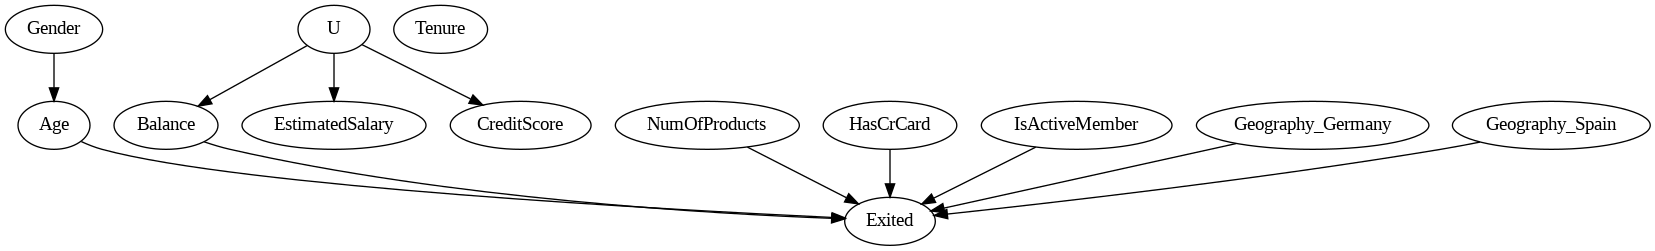
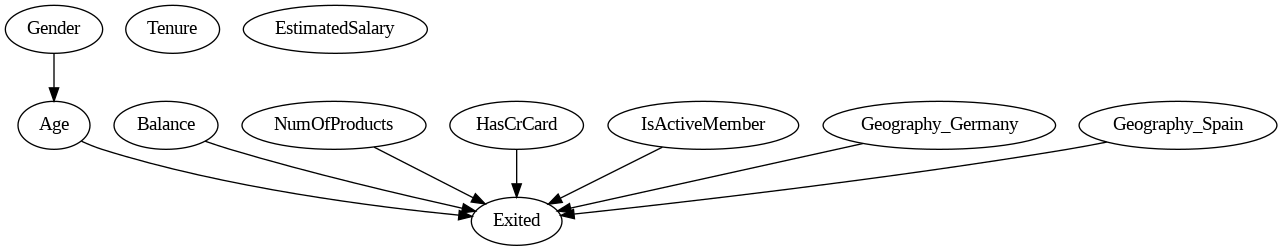
last updates

diff --git a/telco_churn_analysis/telco_churn_analysis/causal/telco_churn_analysis.py b/telco_churn_analysis/telco_churn_analysis/causal/telco_churn_analysis.py
@@ -1,0 +1,119 @@
+import sys
+import subprocess
+
+# Install required system dependencies for pygraphviz
+try:
+    if sys.platform.startswith('linux'):
+        subprocess.check_call(['sudo', 'apt-get', 'install', '-y', 'graphviz', 'graphviz-dev'])
+    elif sys.platform == 'darwin':  # macOS
+        subprocess.check_call(['brew', 'install', 'graphviz'])
+    elif sys.platform.startswith('win'):  # Windows
+        print("Please install Graphviz from https://graphviz.org/download/ and add it to your PATH.")
+except Exception as e:
+    print(e)
+
+# Install pygraphviz
+try:
+    subprocess.check_call([sys.executable, '-m', 'pip', 'install', 'pygraphviz'])
+except Exception as e:
+    print(e)
+
+# Import necessary libraries
+import pandas as pd
+import numpy as np
+import matplotlib.pyplot as plt
+import dowhy
+import graphviz
+from IPython.display import Image, display
+
+# Load the dataset
+dataset = pd.read_csv('https://raw.githubusercontent.com/serterergun/Implementation/main/telco_churn_analysis/data/telco_churn_analysis.csv?token=GHSAT0AAAAAACRMURIWLGAIVKVZSRA5UZEGZSFJD3Q')
+
+# Drop the "customerID" column
+dataset = dataset.drop(['customerID'], axis=1)
+
+# Encode categorical features
+categorical_features = [
+    'gender', 'Partner', 'Dependents', 'PhoneService', 'MultipleLines', 
+    'InternetService', 'OnlineSecurity', 'OnlineBackup', 'DeviceProtection', 
+    'TechSupport', 'StreamingTV', 'StreamingMovies', 'Contract', 
+    'PaperlessBilling', 'PaymentMethod'
+]
+
+# Convert categorical variables into dummy/indicator variables
+dataset = pd.get_dummies(dataset, columns=categorical_features, drop_first=True)
+
+# Check for missing values and handle if necessary
+dataset.isnull().sum()
+
+# Creating a copy of the dataset
+dataset_copy = dataset.copy(deep=True)
+
+# Define the causal graph
+causal_graph = """digraph {
+    SeniorCitizen[label="Senior Citizen"];
+    tenure[label="Tenure"];
+    MonthlyCharges[label="Monthly Charges"];
+    TotalCharges[label="Total Charges"];
+    Churn[label="Churn"];
+    gender_Male[label="Gender: Male"];
+    Partner_Yes[label="Partner"];
+    Dependents_Yes[label="Dependents"];
+    PhoneService_Yes[label="Phone Service"];
+    MultipleLines_Yes[label="Multiple Lines"];
+    InternetService_Fiber_optic[label="Internet Service: Fiber Optic"];
+    InternetService_No[label="Internet Service: No"];
+    OnlineSecurity_Yes[label="Online Security"];
+    OnlineBackup_Yes[label="Online Backup"];
+    DeviceProtection_Yes[label="Device Protection"];
+    TechSupport_Yes[label="Tech Support"];
+    StreamingTV_Yes[label="Streaming TV"];
+    StreamingMovies_Yes[label="Streaming Movies"];
+    Contract_One_year[label="Contract: One Year"];
+    Contract_Two_year[label="Contract: Two Year"];
+    PaperlessBilling_Yes[label="Paperless Billing"];
+    PaymentMethod_Credit_card_automatic[label="Payment Method: Credit Card (Automatic)"];
+    PaymentMethod_Electronic_check[label="Payment Method: Electronic Check"];
+    PaymentMethod_Mailed_check[label="Payment Method: Mailed Check"];
+
+    gender_Male -> Churn;
+    Partner_Yes -> Churn;
+    Dependents_Yes -> Churn;
+    PhoneService_Yes -> Churn;
+    MultipleLines_Yes -> Churn;
+    InternetService_Fiber_optic -> Churn;
+    InternetService_No -> Churn;
+    OnlineSecurity_Yes -> Churn;
+    OnlineBackup_Yes -> Churn;
+    DeviceProtection_Yes -> Churn;
+    TechSupport_Yes -> Churn;
+    StreamingTV_Yes -> Churn;
+    StreamingMovies_Yes -> Churn;
+    Contract_One_year -> Churn;
+    Contract_Two_year -> Churn;
+    PaperlessBilling_Yes -> Churn;
+    PaymentMethod_Credit_card_automatic -> Churn;
+    PaymentMethod_Electronic_check -> Churn;
+    PaymentMethod_Mailed_check -> Churn;
+    SeniorCitizen -> Churn;
+    tenure -> Churn;
+    MonthlyCharges -> Churn;
+    TotalCharges -> Churn;
+}"""
+
+# Initialize the dowhy model with the new dataset and adjusted causal graph
+model = dowhy.CausalModel(
+    data=dataset,
+    graph=causal_graph.replace("\n", " "),
+    treatment="Contract_Two_year",  # Adjust this based on the causal question
+    outcome='Churn'
+)
+
+# Generate the causal graph image
+model.view_model()
+
+# Display the causal graph
+display(Image(filename="causal_model.png"))
+
+# Save the causal graph as a PDF
+graphviz.Source(causal_graph).render("causal_model", format='pdf')

diff --git a/bank_customer_churn_analysis/bank_customer_churn_analysis/causal/bank_customer_churn_analysis.py b/bank_customer_churn_analysis/bank_customer_churn_analysis/causal/bank_customer_churn_analysis.py
@@ -1,12 +1,33 @@
+import sys
+import subprocess
+
+# Install required system dependencies for pygraphviz
+try:
+    if sys.platform.startswith('linux'):
+        subprocess.check_call(['sudo', 'apt-get', 'install', '-y', 'graphviz', 'graphviz-dev'])
+    elif sys.platform == 'darwin':  # macOS
+        subprocess.check_call(['brew', 'install', 'graphviz'])
+    elif sys.platform.startswith('win'):  # Windows
+        print("Please install Graphviz from https://graphviz.org/download/ and add it to your PATH.")
+except Exception as e:
+    print(e)
+
+# Install pygraphviz
+try:
+    subprocess.check_call([sys.executable, '-m', 'pip', 'install', 'pygraphviz'])
+except Exception as e:
+    print(e)
+
+# Import necessary libraries
 import pandas as pd
 import numpy as np
 import matplotlib.pyplot as plt
 import dowhy
 import graphviz
+from IPython.display import Image, display
 
 # Load the new dataset
-dataset = pd.read_csv('https://raw.githubusercontent.com/serterergun/Implementation/main/bank_customer_churn_analysis/data/bank_customer_churn_analysis.csv?token=GHSAT0AAAAAACRMURIWREBERBCK3KZAWPM6ZSFG3OQ')
-dataset.head()
+dataset = pd.read_csv('https://raw.githubusercontent.com/serterergun/Implementation/main/bank_customer_churn_analysis/data/bank_customer_churn_analysis.csv?token=GHSAT0AAAAAACRMURIXQD6PB2P4AKEV2GXSZSFJWSA')
 
 # Drop the specified columns
 dataset = dataset.drop(['RowNumber', 'CustomerId', 'Surname'], axis=1)
@@ -15,35 +36,25 @@ dataset = dataset.drop(['RowNumber', 'CustomerId', 'Surname'], axis=1)
 dataset['Gender'] = dataset['Gender'].map({'Male': 1, 'Female': 0})
 dataset = pd.get_dummies(dataset, columns=['Geography'], drop_first=True)
 
-dataset.columns
-
 # Check for missing values and handle if necessary
 dataset.isnull().sum()
-
-# For this example, we assume no additional handling is needed, but you may need to adjust based on the dataset
-
-# Example of printing first few rows after processing
-print(dataset.head())
 
 # Creating a copy of the dataset
 dataset_copy = dataset.copy(deep=True)
 
-# Adjust the causal graph as per the new dataset. This is an example and needs to be adapted based on the dataset's features and domain knowledge.
+# Define the causal graph in a detailed manner
 causal_graph = """digraph {
-    CreditScore;
-    Gender;
-    Age;
-    Tenure;
-    Balance;
-    NumOfProducts;
-    HasCrCard;
-    IsActiveMember;
-    EstimatedSalary;
+    Gender[label="Gender"];
+    Age[label="Age"];
+    Tenure[label="Tenure"];
+    Balance[label="Balance"];
+    NumOfProducts[label="Number of Products"];
+    HasCrCard[label="Has Credit Card"];
+    IsActiveMember[label="Is Active Member"];
+    EstimatedSalary[label="Estimated Salary"];
     Exited[label="Churn"];
     Geography_Germany[label="Geography: Germany"];
     Geography_Spain[label="Geography: Spain"];
-    U[label="Unobserved Confounders",observed="no"];
-    U->{CreditScore, Balance, EstimatedSalary};
     Gender -> Age;
     Age -> Exited;
     Balance -> Exited;
@@ -55,12 +66,15 @@ causal_graph = """digraph {
 }"""
 
 # Initialize the dowhy model with the new dataset and adjusted causal graph
-model= dowhy.CausalModel(
-        data = dataset,
+model = dowhy.CausalModel(
+        data=dataset,
         graph=causal_graph.replace("\n", " "),
         treatment="IsActiveMember",  # Adjust this based on the causal question
-        outcome='Exited')
+        outcome='Exited'
+)
+
+# Generate the causal graph image
 model.view_model()
 
-from IPython.display import Image, display
+# Display the causal graph
 display(Image(filename="causal_model.png"))

diff --git a/heart_failure_analysis/heart_failure_analysis/causal/heart_failure_analysis.py b/heart_failure_analysis/heart_failure_analysis/causal/heart_failure_analysis.py
@@ -27,7 +27,7 @@ import graphviz
 from IPython.display import Image, display
 
 # Load the new dataset
-dataset = pd.read_csv('https://raw.githubusercontent.com/serterergun/Implementation/main/digital_marketing_analysis/data/digital_marketing_analysis.csv?token=GHSAT0AAAAAACRMURIW2KLPR3ABUXU3ARYMZSFIP7Q')
+dataset = pd.read_csv('https://raw.githubusercontent.com/serterergun/Implementation/main/heart_failure_analysis/data/heart_failure_analysis.csv?token=GHSAT0AAAAAACRMURIXN52RIZGALH2B6TPMZSFI3XA')
 
 # Display the first few rows of the dataset to understand its structure
 print(dataset.head())
@@ -48,47 +48,24 @@ for column in dataset.columns:
 dataset_copy = dataset.copy(deep=True)
 
 # Define the outcome variable
-outcome_variable = 'churn'
+outcome_variable = 'DEATH_EVENT'
 
 # Identify a potential treatment variable - adjust based on domain knowledge
-treatment_variable = 'MarketingSpend'  # Example, replace with actual treatment feature if different
+# For now, we will use 'serum_sodium' as an example; please adjust based on your specific analysis
+treatment_variable = 'serum_sodium'  # Example, replace with actual treatment feature if different
+
+# Define all features in the dataset excluding the outcome variable
+features = [feature for feature in dataset.columns if feature != outcome_variable]
+nodes = [f'{feature}[label="{feature}"]' for feature in features]
+edges = [f'{feature} -> {outcome_variable}' for feature in features]
 
 # Define the causal graph in a detailed manner
-causal_graph = """digraph {
-    AccountLength[label="Account Length"];
-    Location[label="Location"];
-    AddtoWishlist[label="Add to Wishlist"];
-    DesktopSessions[label="Desktop Sessions"];
-    AppSessions[label="App Sessions"];
-    DesktopTransactions[label="Desktop Transactions"];
-    TotalProductDetailViews[label="Total Product Detail Views"];
-    SessionDuration[label="Session Duration"];
-    PromotionClicks[label="Promotion Clicks"];
-    AverageOrderValue[label="Average Order Value"];
-    SaleProductViews[label="Sale Product Views"];
-    DiscountRatePerVisitedProducts[label="Discount Rate per Visited Products"];
-    ProductDetailViewPerAppSession[label="Product Detail View per App Session"];
-    AppTransactions[label="App Transactions"];
-    AddToCartPerSession[label="Add to Cart per Session"];
-    CustomerServiceCalls[label="Customer Service Calls"];
-    churn[label="Churn"];
-    AccountLength -> churn;
-    Location -> churn;
-    AddtoWishlist -> churn;
-    DesktopSessions -> churn;
-    AppSessions -> churn;
-    DesktopTransactions -> churn;
-    TotalProductDetailViews -> churn;
-    SessionDuration -> churn;
-    PromotionClicks -> churn;
-    AverageOrderValue -> churn;
-    SaleProductViews -> churn;
-    DiscountRatePerVisitedProducts -> churn;
-    ProductDetailViewPerAppSession -> churn;
-    AppTransactions -> churn;
-    AddToCartPerSession -> churn;
-    CustomerServiceCalls -> churn;
-}"""
+causal_graph = f"""digraph {{
+    {"; ".join(nodes)};
+    {"; ".join(edges)};
+    {outcome_variable}[label="{outcome_variable}"];
+}}"""
+print(causal_graph)
 
 # Initialize the dowhy model with the new dataset and adjusted causal graph
 model = dowhy.CausalModel(
